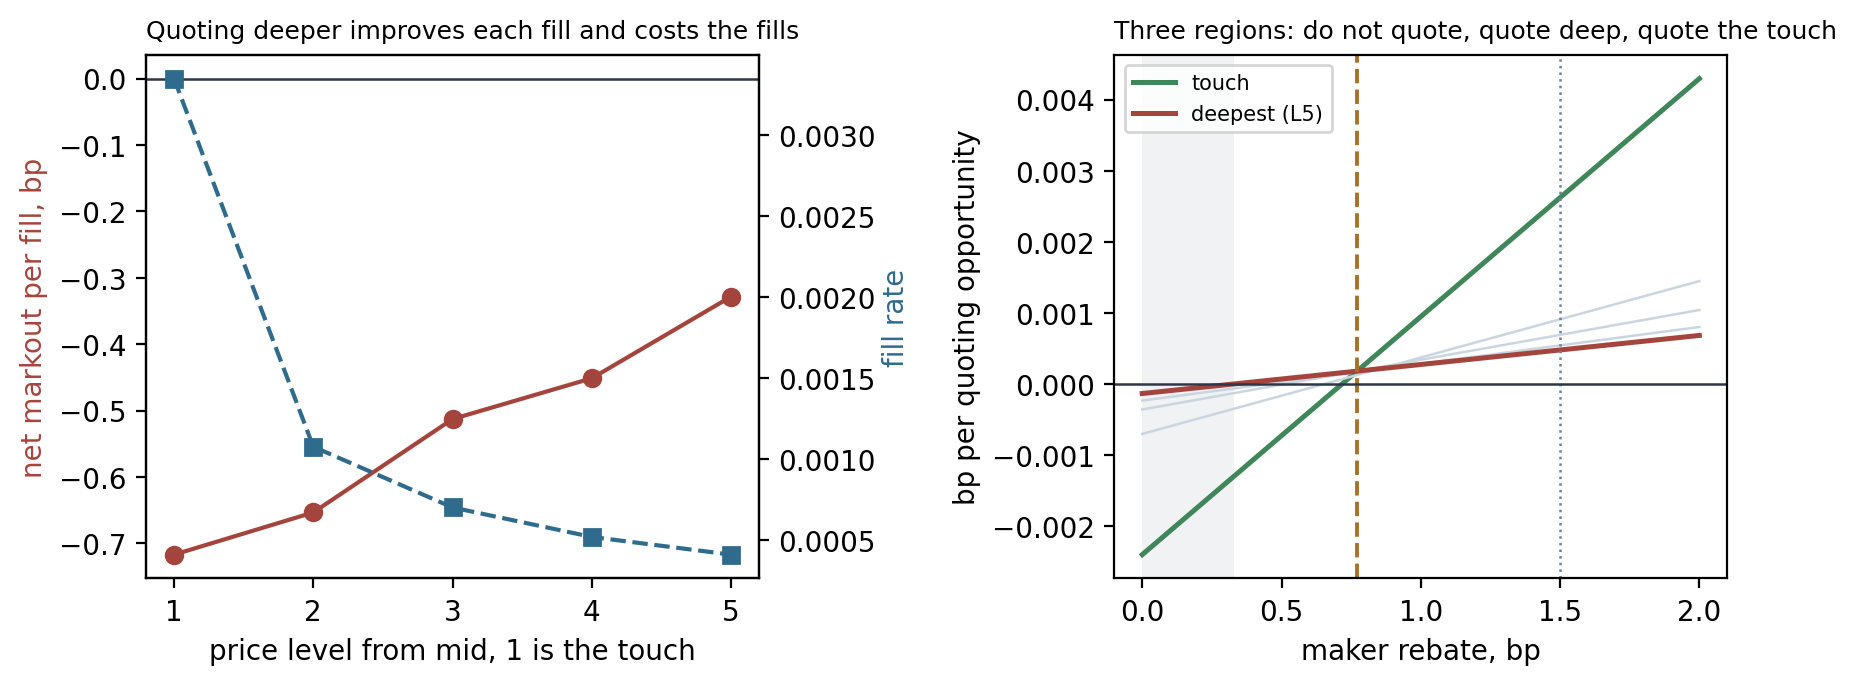
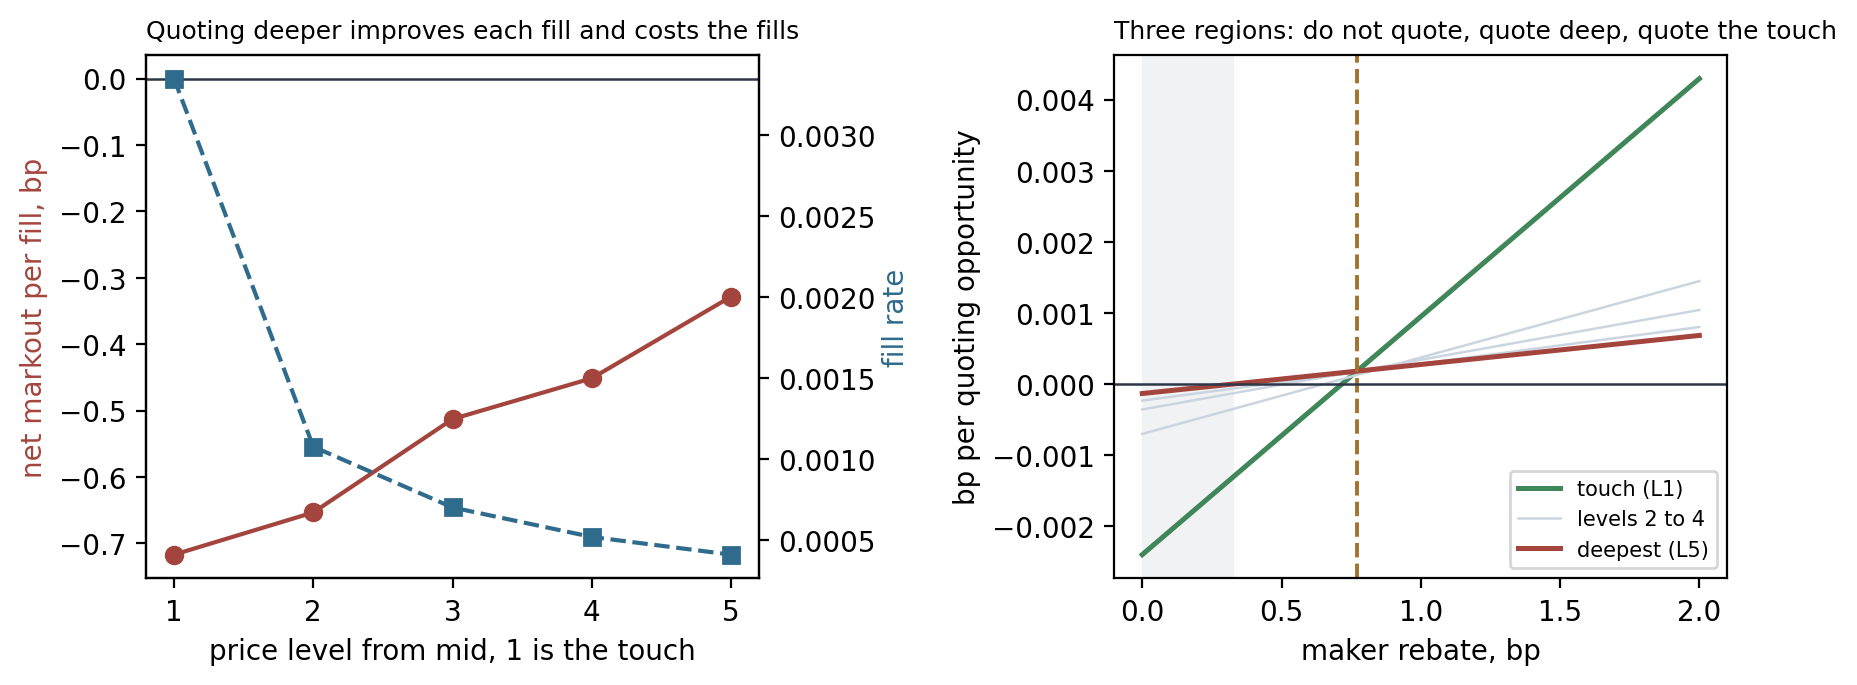
fix(results): withdraw the unsourced maker rebate tier
The depth-frontier, depth-interval and quoting-arm producers each carried
1.5 bp as a hardcoded constant, emitted as bybit_best_published_tier_bp
and published_tier_bp and read downstream as Bybit's best published maker
rebate. It carried no comment, citation or date and could not be sourced.

A tier is now a caller-supplied parameter: --tier-bp and --tier-source
must be given together, and supplying one without the other is an error.
The results ship with none, and each carries a published_tier block that
records why it is absent.

Nine tier-derived fields are removed across the three result files. One
of them, residual_fee_that_inverts_the_verdict_bp, was the tier minus the
measured crossing rather than a measurement of anything. No measured
value changes: all three producers rebuild against the shipped files with
zero numeric mismatches, and all ten panels still hash-verify.

Alongside that:

- three sweep rungs added to the depth frontier, recomputed
  deterministically from the shipped markouts and fill rates
- a terms block on the frontier scoping what it means by profitable,
  which is a positive expected value per quoting opportunity under a
  one-sided pre-fee accounting with no exit leg
- the conditional files record that the dropped-prefix share is carried
  from the upstream measurement and is not derivable from the shipped
  panel
- venue_difference no longer sets a fee-schedule difference against a
[…]

diff --git a/reproduce/analysis/depth_rebate_intervals.py b/reproduce/analysis/depth_rebate_intervals.py
@@ -16,9 +16,10 @@ so the narrowing is visible rather than implied.
 
 Neither interval covers the axis that dominates the answer. No maker fee is
 charged, on the reading that the rebate replaces it, and charging a residual
-fee moves the crossing one for one. The fee curve below shows that directly:
-the crossing passes the published tier at a residual smaller than the width of
-either interval.
+fee moves the crossing one for one. The fee curve below shows that directly,
+and a residual well inside the width of either interval shifts the crossing by
+more than the bootstrap prices. No venue rebate tier is assumed; pass --tier-bp
+with --tier-source to compare the crossing against one.
 """
 
 from __future__ import annotations
@@ -39,7 +40,6 @@ REPRODUCE = HERE.parent
 N_LEVELS = 5
 N_BOOT = 4000
 SEED = 11
-TIER_BP = 1.5
 
 
 def load_cells(path, n_levels=N_LEVELS):
@@ -104,9 +104,14 @@ def main():
     ap = argparse.ArgumentParser()
     ap.add_argument("--panel",
                     default=str(REPRODUCE / "panels" / "bybit_depth_levels.csv"))
-    ap.add_argument("--tier-bp", type=float, default=TIER_BP)
+    ap.add_argument("--tier-bp", type=float, default=None,
+                    help="a venue maker rebate tier to compare the crossing against; requires --tier-source")
+    ap.add_argument("--tier-source", default=None,
+                    help="the schedule and retrieval date the tier comes from")
     ap.add_argument("--out", required=True)
     a = ap.parse_args()
+    if (a.tier_bp is None) != (a.tier_source is None):
+        ap.error("--tier-bp and --tier-source must be given together")
     cells = load_cells(a.panel)
     by_coin = defaultdict(list)
     for k in cells:
@@ -128,8 +133,31 @@ def main():
         return ([float(np.percentile(d, 2.5)), float(np.percentile(d, 97.5))]
                 if d.size >= 200 else [float("nan"), float("nan")])
 
-    n_below = int((coin_draws < a.tier_bp).sum()) if coin_draws.size else 0
-    at_floor = bool(coin_draws.size and n_below == coin_draws.size)
+    if a.tier_bp is None:
+        n_below, at_floor = 0, False
+    else:
+        n_below = int((coin_draws < a.tier_bp).sum()) if coin_draws.size else 0
+        at_floor = bool(coin_draws.size and n_below == coin_draws.size)
+    if a.tier_bp is None:
+        tier_block = {"tier_bp": None, "source": None,
+                      "why_absent": "No venue rebate tier is asserted here. A tier is a property of a "
+                                    "fee schedule the venue revises on its own cadence, not of this "
+                                    "panel, so it is supplied by the caller with its source or it is "
+                                    "left out. An earlier version of this file carried a 1.5 bp "
+                                    "figure attributed to Bybit's best published maker tier; that "
+                                    "attribution could not be sourced and was withdrawn along with "
+                                    "every quantity derived from it."
+                      }
+    else:
+        tier_block = {
+            "tier_bp": a.tier_bp,
+            "source": a.tier_source,
+            "crossing_is_below_tier": bool(point < a.tier_bp),
+            "residual_fee_that_would_invert_it_bp": a.tier_bp - point,
+            "prob_crossing_below_tier": (
+                n_below / coin_draws.size if coin_draws.size else float("nan")),
+            "prob_is_at_resampling_floor": at_floor,
+        }
     out = {
         "venue": "bybit_perp",
         "n_coindays": len(cells),
@@ -148,19 +176,16 @@ def main():
         "n_clusters": len(coins),
         "leave_one_coin_out_crossing": loco,
         "loco_range": [min(live), max(live)] if live else None,
-        "prob_crossing_below_published_tier": (
-            n_below / coin_draws.size if coin_draws.size else float("nan")),
-        "prob_crossing_below_published_tier_bound": (
-            1.0 - 1.0 / (coin_draws.size + 1.0) if at_floor
-            else (n_below / coin_draws.size if coin_draws.size else float("nan"))),
-        "prob_crossing_below_published_tier_is_at_floor": at_floor,
         "fee_sensitivity": {
-            "residual_fee_that_inverts_the_verdict_bp": a.tier_bp - point,
-            "curve": {f"{c:.1f}": {"crossing_bp": point + c,
-                                   "touch_wins_at_tier": bool(point + c < a.tier_bp)}
+            "note": "A residual maker fee charged alongside a rebate moves the "
+                    "crossing one for one. The crossing is a property of this "
+                    "panel; whether it sits above or below any particular "
+                    "rebate is a property of a fee schedule and is not decided "
+                    "here.",
+            "curve": {f"{c:.1f}": {"crossing_bp": point + c}
                       for c in (0.0, 0.5, 1.0, 1.5, 2.0)},
         },
-        "bybit_best_published_tier_bp": a.tier_bp,
+        "published_tier": tier_block,
     }
     Path(a.out).write_text(json.dumps(out, indent=2, default=float))
     print(f"{len(cells)} coin-days, {len(coins)} coins")

diff --git a/reproduce/analysis/depth_rebate_frontier.py b/reproduce/analysis/depth_rebate_frontier.py
@@ -23,6 +23,13 @@ one for one.
 One rebate on the swept grid, 0.8387 bp, is Bybit's pooled net markout rather
 than a round number. It comes from the venue decomposition table and is not
 derivable from this panel, so it is carried here as a constant.
+
+No venue rebate tier is assumed. A tier is a fact about a fee schedule rather
+than about this panel, it is revised by the venue on its own cadence, and an
+earlier version of this script carried one as an unsourced literal. Pass
+--tier-bp together with --tier-source to place a tier on the frontier; both are
+required together so that a tier can never enter a result without the schedule
+and retrieval date that support it.
 """
 
 from __future__ import annotations
@@ -40,9 +47,9 @@ import numpy as np
 HERE = Path(__file__).resolve().parent
 REPRODUCE = HERE.parent
 N_LEVELS = 5
-BEST_TIER_BP = 1.5
 BYBIT_BREAKEVEN_BP = 0.8387
-REBATES = [0.0, 0.25, 0.5, BYBIT_BREAKEVEN_BP, 1.0, 1.25, BEST_TIER_BP, 2.0]
+REBATES = [0.0, 0.25, 0.4, 0.5, 0.6, 0.75, BYBIT_BREAKEVEN_BP, 1.0, 1.25, 1.5,
+           2.0]
 
 
 def collect(path, n_levels=N_LEVELS):
@@ -92,7 +99,14 @@ def main():
     ap.add_argument("--panel",
                     default=str(REPRODUCE / "panels" / "bybit_depth_levels.csv"))
     ap.add_argument("--out", required=True)
+    ap.add_argument("--tier-bp", type=float, default=None,
+                    help="a venue maker rebate tier to mark on the frontier; "
+                         "requires --tier-source")
+    ap.add_argument("--tier-source", default=None,
+                    help="the schedule and retrieval date the tier comes from")
     a = ap.parse_args()
+    if (a.tier_bp is None) != (a.tier_source is None):
+        ap.error("--tier-bp and --tier-source must be given together")
     markout, fill_rate, fills, opportunities, n_days = collect(a.panel)
     r1, r5 = fill_rate[0], fill_rate[-1]
     m1, m5 = markout[0], markout[-1]
@@ -116,7 +130,18 @@ def main():
         "breakeven_rebate_by_level_bp": (-markout).tolist(),
         "min_rebate_for_any_level_profitable_bp": float(np.nanmin(-markout)),
         "bybit_breakeven_rebate_bp": BYBIT_BREAKEVEN_BP,
-        "bybit_best_published_tier_bp": BEST_TIER_BP,
+        "published_tier": ({"tier_bp": a.tier_bp, "source": a.tier_source}
+                           if a.tier_bp is not None else
+                           {"tier_bp": None,
+                            "source": None,
+                            "why_absent": "No venue rebate tier is asserted here. A tier is a property of a "
+                                          "fee schedule the venue revises on its own cadence, not of this "
+                                          "panel, so it is supplied by the caller with its source or it is "
+                                          "left out. An earlier version of this file carried a 1.5 bp "
+                                          "figure attributed to Bybit's best published maker tier; that "
+                                          "attribution could not be sourced and was withdrawn along with "
+                                          "every quantity derived from it."
+                            }),
     }
     Path(a.out).write_text(json.dumps(out, indent=2, default=float))
     print(f"{n_days} coin-days, bid side, level 1 is the touch")

diff --git a/reproduce/analysis/quoting_arm.py b/reproduce/analysis/quoting_arm.py
@@ -14,7 +14,7 @@ coin-day so that neither leg's volume drives the average on its own.
 Two readings of the same arm point opposite ways and both are reported. Per
 fill at no rebate the arm looks better than the touch, because it declines most
 of the fills the touch takes and the ones it declines are the worst. Per
-quoting opportunity at the venue's published tier the preference reverses,
+quoting opportunity the preference reverses above the crossing rebate,
 because a rebate is paid per fill and the arm has given up the volume that
 earns it. Only the second describes a maker choosing between the two.
 
@@ -52,8 +52,7 @@ sys.path.insert(0, str(REPRODUCE.parent))
 from makercex import cluster_bootstrap
 N_BOOT = 4000
 SEED = 11
-REBATES = (0.0, 0.25, 0.5, 0.75, 1.0, 1.25)
-TIER_BP = 1.5
+REBATES = (0.0, 0.25, 0.5, 0.75, 1.0, 1.25, 1.5, 2.0)
 
 
 def load(path):
@@ -165,10 +164,17 @@ def main():
         "at_deepest_median": float(np.median([r["at_deepest"] for r in rows])),
         "tested_family_is_a_depth_rule": bool(outside > 0.5),
         "rebate_frontier": fr,
-        "prefers_at_published_tier": (
-            "A-S" if (sum(r["as_fills"] * (r["as_net"] + TIER_BP) for r in rows)
-                      > sum(r["touch_fills"] * (r["touch_net"] + TIER_BP)
-                            for r in rows)) else "touch"),
+        "published_tier": {
+            "tier_bp": None,
+            "source": None,
+            "why_absent": "No venue rebate tier is asserted here. The rebate frontier "
+                          "orders the two rules at every swept rebate; where a particular "
+                          "maker sits on it is a property of that maker's fee schedule and "
+                          "is not decided by this panel. An earlier version carried a 1.5 "
+                          "bp figure attributed to Bybit's best published maker tier; that "
+                          "attribution could not be sourced and was withdrawn."
+            ,
+        },
         "verdict": "the Avellaneda-Stoikov arm does not escape adverse selection",
     }
     Path(a.out).write_text(json.dumps(out, indent=2, default=float))
@@ -178,8 +184,8 @@ def main():
     print(f"  per-fill difference {diff:+.4f} bp")
     print(f"    coin-clustered [{ci_coin[0]:+.4f}, {ci_coin[1]:+.4f}]")
     print(f"    by coin-day    [{ci_day[0]:+.4f}, {ci_day[1]:+.4f}]")
-    print(f"  at the published tier the maker prefers the "
-          f"{out['prefers_at_published_tier']}")
+    print(f"  per quoting opportunity the arm is preferred below "
+          f"{out['crossing_rebate_bp']:.4f} bp and the touch above it")
 
 
 if __name__ == "__main__":

diff --git a/reproduce/make_figures.py b/reproduce/make_figures.py
@@ -226,14 +226,13 @@ def fig_depth_rebate():
         ax2.plot(rebs, ev, lw=1.8 if level in (1, len(lv)) else 0.9,
                  color=C_NET if level == 1 else
                  (C_ADV if level == len(lv) else "#cbd5e0"),
-                 label=("touch" if level == 1 else
-                        f"deepest (L{level})" if level == len(lv) else None))
+                 label=("touch (L1)" if level == 1 else
+                        f"deepest (L{level})" if level == len(lv) else
+                        "levels 2 to 4" if level == 2 else None))
     r_min = d["min_rebate_for_any_level_profitable_bp"]
     ax2.axvspan(min(rebs), r_min, color="#718096", alpha=0.10, lw=0)
     ax2.axvline(d["touch_overtakes_deepest_at_rebate_bp"], color=C_ACC,
                 lw=1.4, ls="--")
-    ax2.axvline(d["bybit_best_published_tier_bp"], color="#718096", lw=0.9,
-                ls=":")
     ax2.axhline(0, color="#2d3748", lw=0.9)
     ax2.set_xlabel("maker rebate, bp")
     ax2.set_ylabel("bp per quoting opportunity")

diff --git a/reproduce/print_headline.py b/reproduce/print_headline.py
@@ -78,8 +78,8 @@ def main():
     print(f"  minimum rebate before any level profits "
           f"{dr['min_rebate_for_any_level_profitable_bp']:.4f} bp")
     print(f"  touch overtakes the deepest level at "
-          f"{dr['touch_overtakes_deepest_at_rebate_bp']:.4f} bp against a "
-          f"published tier of {dr['bybit_best_published_tier_bp']} bp")
+          f"{dr['touch_overtakes_deepest_at_rebate_bp']:.4f} bp; no venue "
+          f"rebate tier is asserted here")
 
     asm = load("avellaneda_stoikov_arm.json")
     print("\nAvellaneda-Stoikov quoting arm, Bybit only")

diff --git a/README.md b/README.md
@@ -134,8 +134,11 @@ measured break-even rebate is 0.328 bp, and the touch overtakes the deepest
 quoted level at 0.771 bp, with levels referring to price depth rather than queue
 position.
 
-**Rebate qualification.** The published 1.5 bp tier carries obligations the
-simulated quoter is not shown to satisfy.
+**No rebate tier is asserted.** The crossing is a property of this panel. Whether
+a given maker's rebate sits above or below it is a property of that maker's fee
+schedule, which venues revise on their own cadence, so no tier ships in these
+results. A caller supplying one with `--tier-bp` must also supply
+`--tier-source`.
 
 **Quoting arm.** The tested Avellaneda-Stoikov depth rule remains negative on
 66 of 91 coin-days and takes 9.2% as many fills as the touch rule. This single
